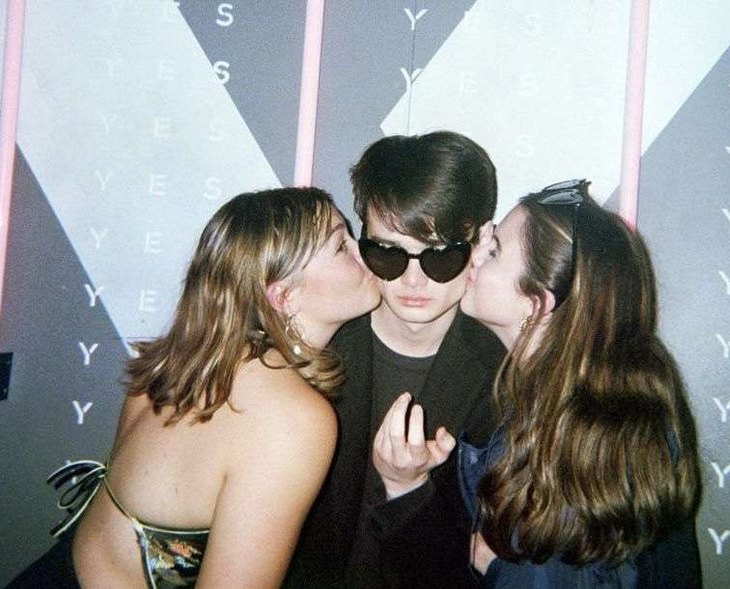
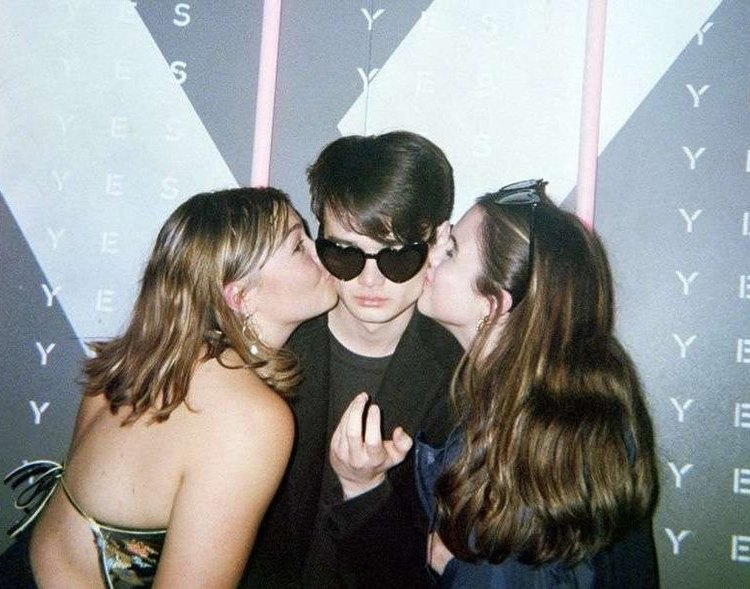
Re-crop the aura photo centered on Murphy
Claude-Session: https://claude.ai/code/session_01GBgVN6foYKP6vESAWTPqPB

diff --git a/CLAUDE.md b/CLAUDE.md
@@ -23,7 +23,7 @@ Rules that keep this working:
 
 - `index.html`: the home page. Plain HTML with a small `<style>` block.
 - `photo.jpg`: the portrait on the main page. 320×320 pixels, shown at 160×160.
-- `aura.jpg`: the photo on the `/aura` page. 730×589 pixels, shown at 365×295.
+- `aura.jpg`: the photo on the `/aura` page, cropped so Murphy is centered. 750×589 pixels, shown at 375×295.
 - `vercel.json`: the `/aura` routing described above, plus `/movies` → `movies.html`.
 - `movies.html`: every movie Murphy has watched, ranked, at `murphy.wiki/movies`.
 - `writing/*.html`: one page per essay.
